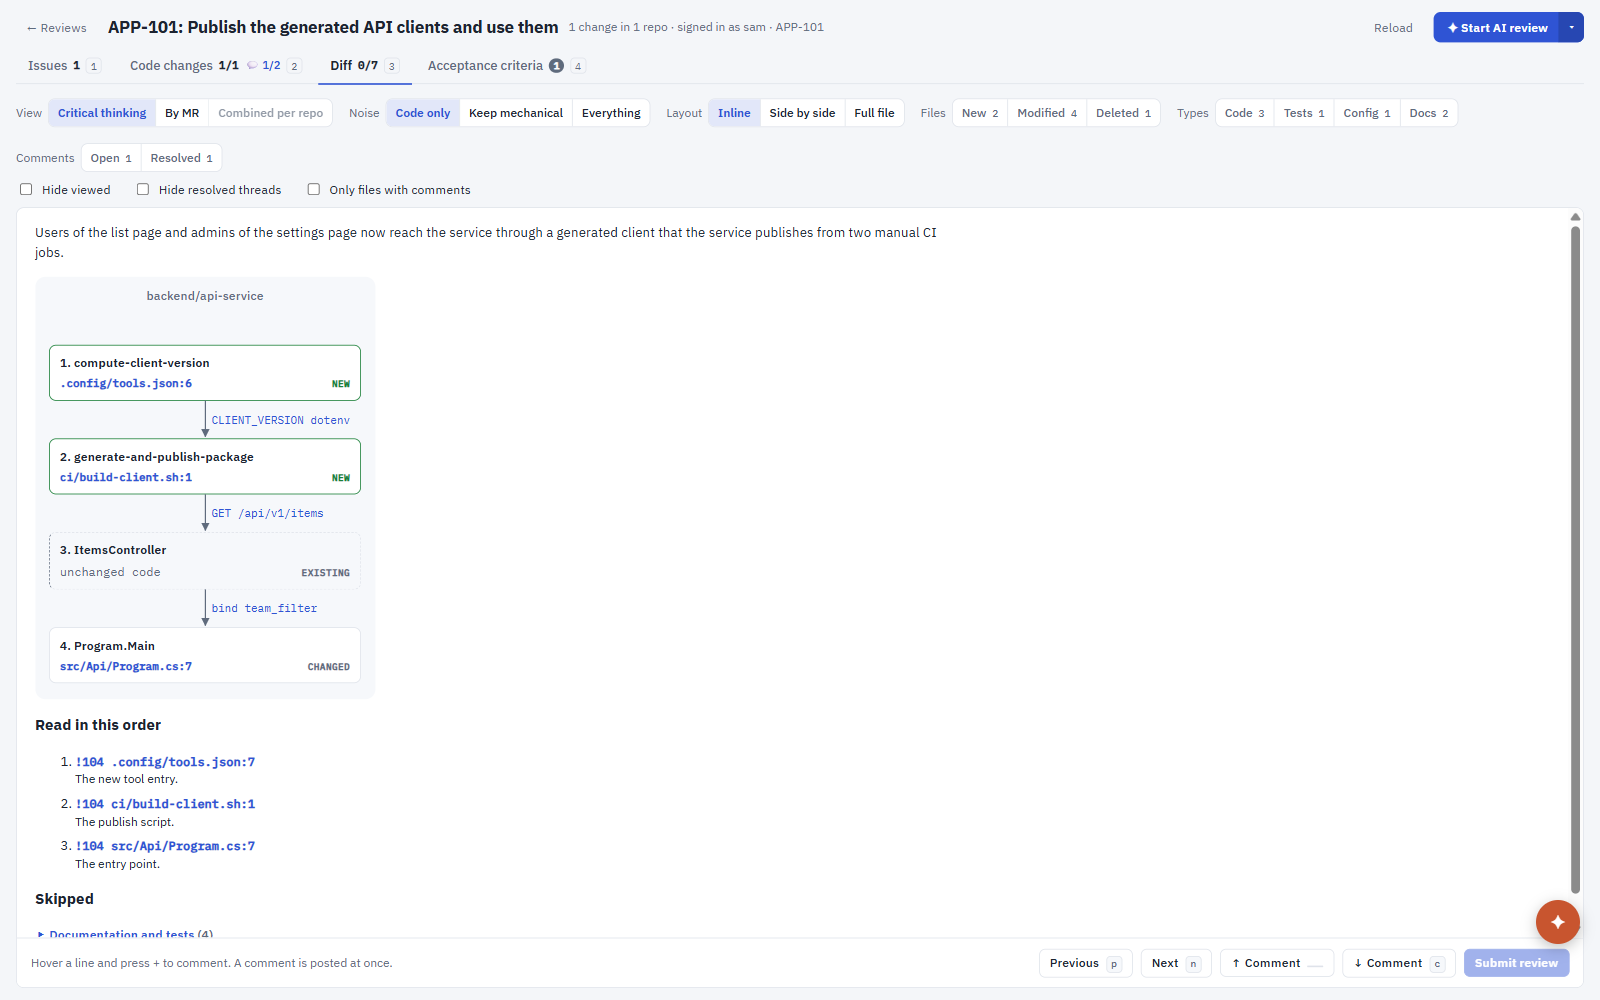
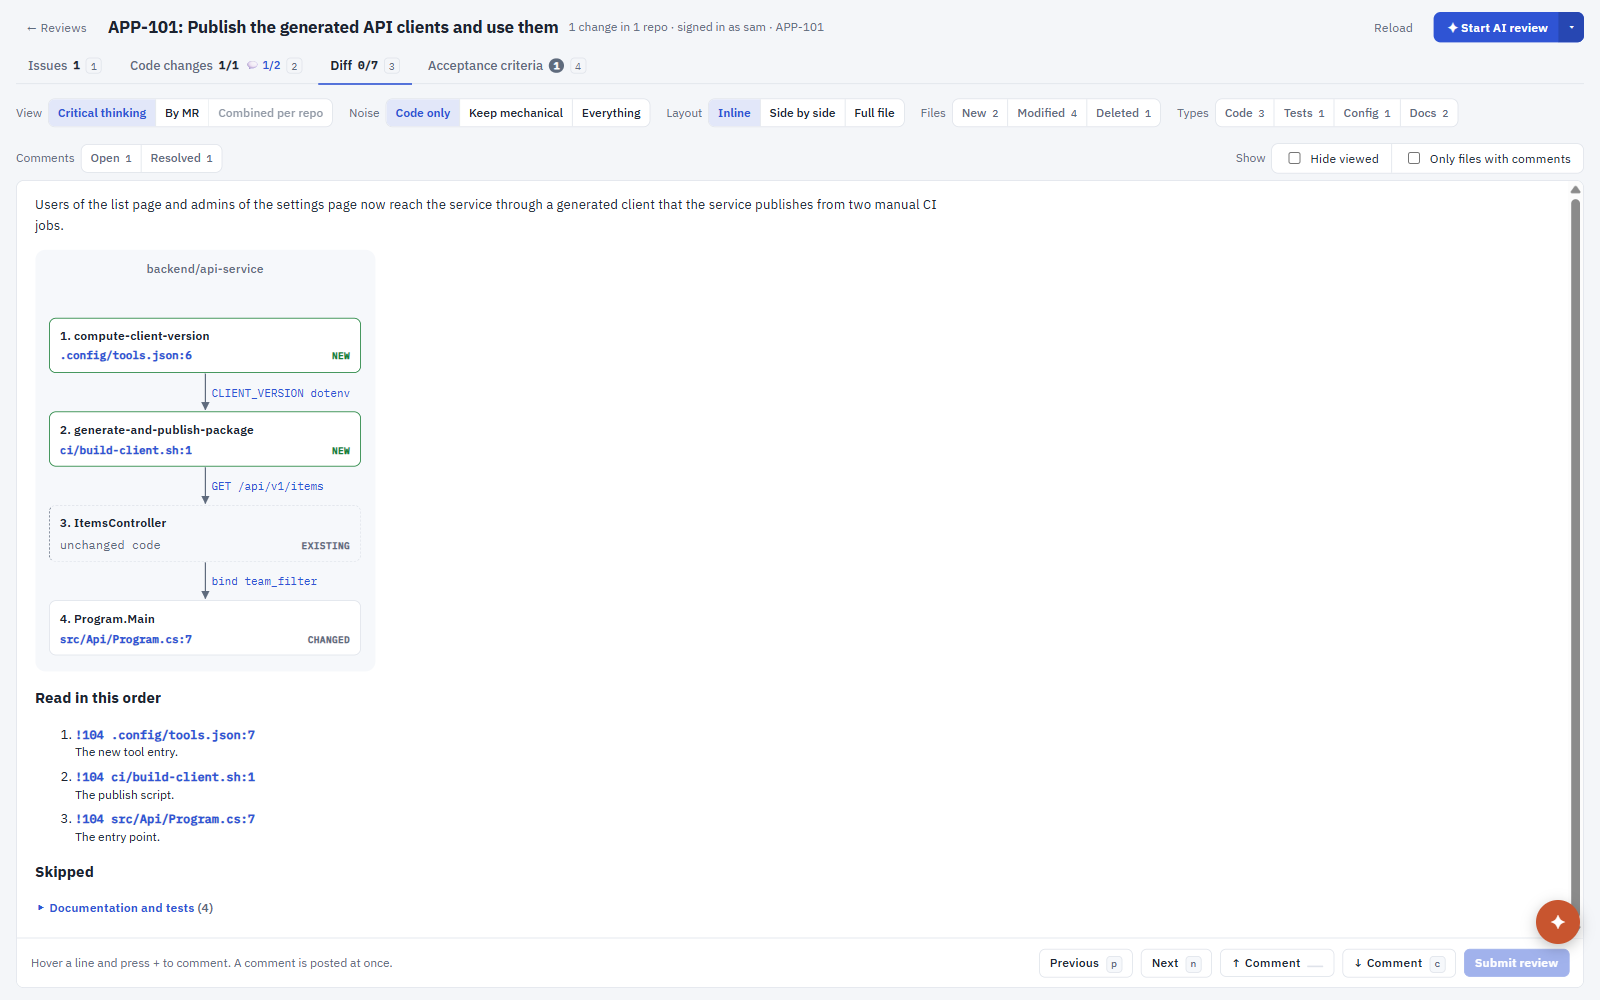
feat: put the toolbar checkboxes in a Show group on the filter row
- Hide viewed and Only files with comments are one group, labelled Show, at the right end of the toolbar
- remove Hide resolved threads, because the Open button of Comments does the same
- retake the screenshots

Claude-Session: https://claude.ai/code/session_01Lfs47fBhmnj7HXEQgeaan6

diff --git a/src/renderer/features/DiffTab.tsx b/src/renderer/features/DiffTab.tsx
@@ -707,18 +707,18 @@ export function DiffTab(props: { visible?: (mrKey: string) => boolean }): React.
             ))}
           </span>
         </div>
-      </div>
-      <div className="checkrow">
-        <label>
-          <input type="checkbox" data-testid="hide-viewed" checked={hideViewed} onChange={(e) => setHideViewed(e.target.checked)} /> Hide viewed
-        </label>
-        <label>
-          <input type="checkbox" checked={r.hideResolved} onChange={(e) => r.setHideResolved(e.target.checked)} /> Hide resolved threads
-        </label>
-        <label>
-          <input type="checkbox" data-testid="only-comments" checked={onlyComments} onChange={(e) => setOnlyComments(e.target.checked)} /> Only files with
-          comments
-        </label>
+        <div className="fgroup checks" role="group" aria-label="Show">
+          <span className="glabel">Show</span>
+          <span className="seg checkseg">
+            <label>
+              <input type="checkbox" data-testid="hide-viewed" checked={hideViewed} onChange={(e) => setHideViewed(e.target.checked)} /> Hide viewed
+            </label>
+            <label>
+              <input type="checkbox" data-testid="only-comments" checked={onlyComments} onChange={(e) => setOnlyComments(e.target.checked)} /> Only files with
+              comments
+            </label>
+          </span>
+        </div>
       </div>
       <div ref={layoutRef} className={dragging ? 'difflayout dragging' : 'difflayout'} style={{ '--tree-width': `${treeWidth}px` } as React.CSSProperties}>
         <aside className="filetree" hidden={view === 'flow'}>
@@ -1016,8 +1016,7 @@ function FileBody(props: {
     return err
   }
 
-  const threadShown = (t: { resolved: boolean }): boolean =>
-    !(r.hideResolved && t.resolved) && (props.commentFilter.size === 0 || props.commentFilter.has(t.resolved ? 'resolved' : 'open'))
+  const threadShown = (t: { resolved: boolean }): boolean => props.commentFilter.size === 0 || props.commentFilter.has(t.resolved ? 'resolved' : 'open')
   const visibleThreads = (mrKey: string, path: string, oldPath: string, line: { o: number | null; n: number | null }): ReturnType<typeof threadsAtLine> => {
     const m = r.mrByKey(mrKey)
     return m ? threadsAtLine(m.snapshot.threads, path, oldPath, line).filter(threadShown) : []

diff --git a/src/renderer/features/review-context.tsx b/src/renderer/features/review-context.tsx
@@ -14,8 +14,6 @@ export interface ReviewCtx {
   data: BuildResult
   people: Record<string, Person>
   drafts: Record<string, PendingComment>
-  hideResolved: boolean
-  setHideResolved(v: boolean): void
   mrByKey(key: string): BuiltMr | undefined
   toast(text: string): void
   applyThreads(key: string, answer: ThreadsAnswer): void
@@ -59,7 +57,6 @@ export function ReviewProvider(props: { slug: string; result: BuildResult; onRel
   const [data, setData] = useState<BuildResult>(props.result)
   const [livePeople, setLivePeople] = useState<Record<string, Person>>({})
   const [drafts, setDrafts] = useState<Record<string, PendingComment>>({})
-  const [hideResolved, setHideResolved] = useState(false)
   const [toastText, setToastText] = useState<string | null>(null)
   const [banner, setBanner] = useState<string[] | null>(null)
   const toastTimer = useRef<ReturnType<typeof setTimeout> | null>(null)
@@ -166,8 +163,6 @@ export function ReviewProvider(props: { slug: string; result: BuildResult; onRel
     data,
     people,
     drafts,
-    hideResolved,
-    setHideResolved,
     mrByKey: (key) => data.mrs.find((m) => m.key === key),
     toast,
     applyThreads,

diff --git a/tests/e2e/phase5.spec.ts b/tests/e2e/phase5.spec.ts
@@ -220,13 +220,13 @@ test('resolves a thread, folds it and updates the chip; deletes the viewer’s l
   await app.close()
 })
 
-test('hide resolved removes resolved threads, and another person’s note has no Delete', async () => {
+test('the Open filter of the comments shows only the open threads, and another person’s note has no Delete', async () => {
   const s = setup()
   const resolved = thread('c', 71, 'bob', 'old', { resolved: true })
   const { app, page } = await open(s, fixtures(s, { [`GET ${EP(12)}/discussions`]: { json: [resolved, thread('d', 72, 'bob', 'new one')] } }))
   await toDiff(page)
   await expect(page.getByTestId('thread')).toHaveCount(2)
-  await page.getByLabel('Hide resolved threads').check()
+  await page.getByTestId('comments-open').click()
   await expect(page.getByTestId('thread')).toHaveCount(1)
   await page
     .getByTestId('thread')

diff --git a/src/renderer/design.css b/src/renderer/design.css
@@ -284,17 +284,24 @@ kbd {
   font: 500 10.5px var(--mono);
   margin-left: 3px;
 }
-.checkrow {
-  display: flex;
-  gap: 22px;
-  padding: 2px 0 8px;
+.difftoolbar .checks {
+  margin-left: auto;
+}
+.checkseg {
+  align-items: center;
+  gap: 0;
   font-size: 12.5px;
   color: var(--fg);
 }
-.checkrow label {
+.checkseg label {
   display: inline-flex;
   align-items: center;
   gap: 6px;
+  padding: 5px 12px;
+  white-space: nowrap;
+}
+.checkseg label + label {
+  border-left: 1px solid var(--line);
 }
 
 .difflayout {

diff --git a/docs/FEATURES.md b/docs/FEATURES.md
@@ -60,9 +60,9 @@ The table has one row for each change with its number, stack position, title and
 - **Layout**: Inline, Side by side, or Full file.
 - **Files**: New, Modified and Deleted, each with its count.
 - **Types**: Code, Tests, Config and Docs, each with its count.
-- **Comments**: Open and Resolved, each with the number of threads. With Open on, the tree shows only the files with open threads, and the diff shows only the open threads. Resolved works the same way.
+- **Comments**: Open and Resolved, each with the number of threads. With Open on, the tree shows only the files with open threads, and the diff shows only the open threads, so resolved threads are hidden. Resolved works the same way.
 - Filters with buttons (Files, Types and Comments) narrow the list only when a button is on. With no button on, every file shows.
-- Three checkboxes: Hide viewed, Hide resolved threads and Only files with comments.
+- **Show**: a group at the right end of the toolbar with two checkboxes, Hide viewed and Only files with comments.
 
 ### 6.2 The file tree
 
